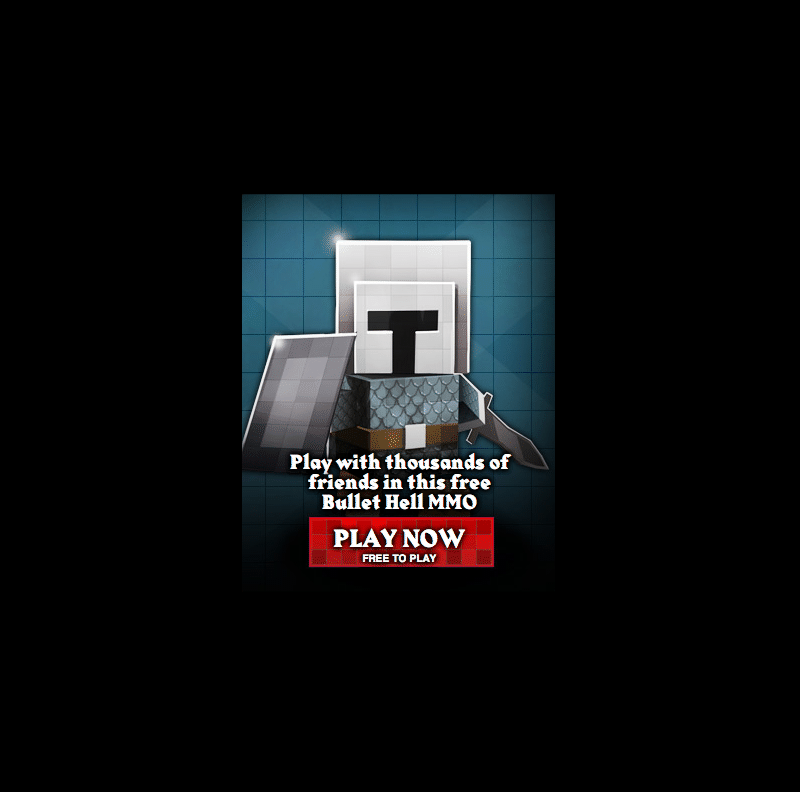
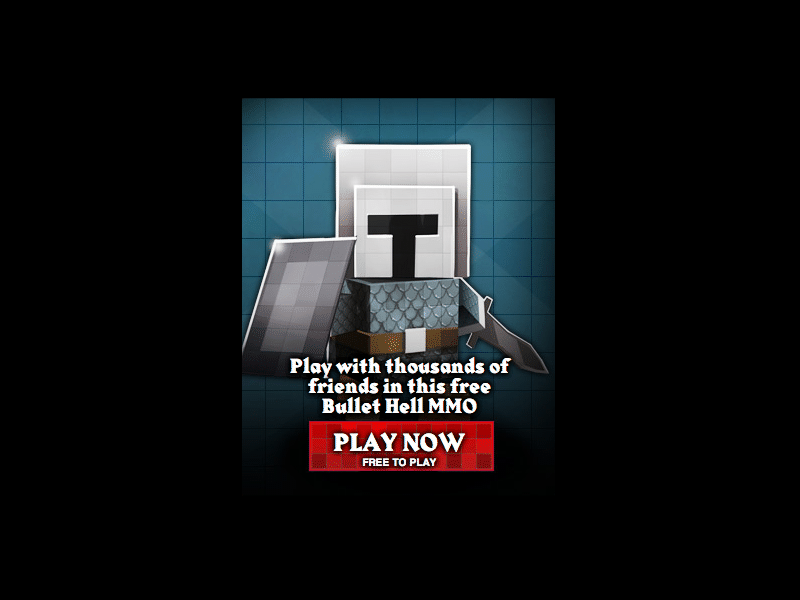
Templating / Styling of ROTMG container (bugid:49549)
git-svn-id: https://svn.wikia-code.com/wikia/trunk@61867 e846bd91-c042-42a7-a218-4b65e2c1904d

Changed region(s): [[0.2812, 0.15, 0.7188, 0.81]]

diff --git a/extensions/wikia/InWikiGame/js/InWikiGame.js b/extensions/wikia/InWikiGame/js/InWikiGame.js
@@ -17,7 +17,7 @@ var InWikiGame = {
 				{
 					'src': iframeUrl,
 					'width': '800px',
-					'height': '792px'
+					'height': '600px'
 				}
 			);
 			iframe.load(function() {
